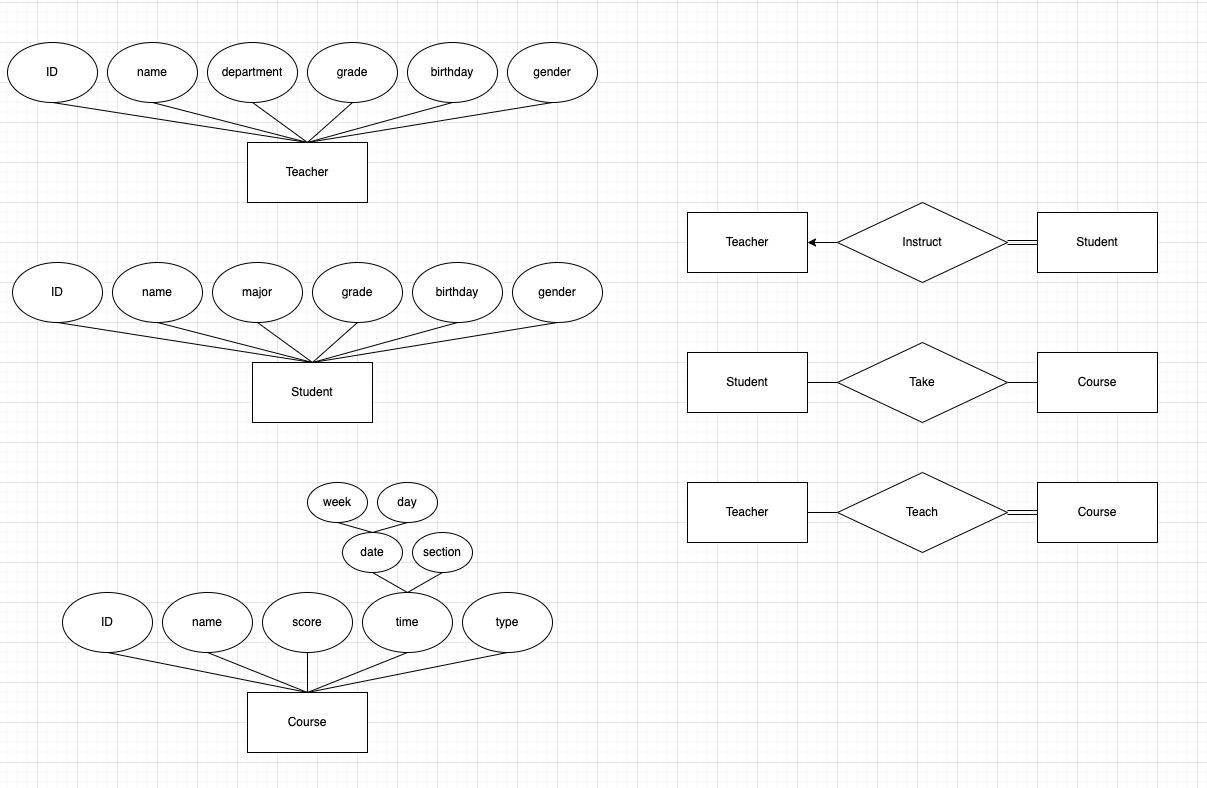
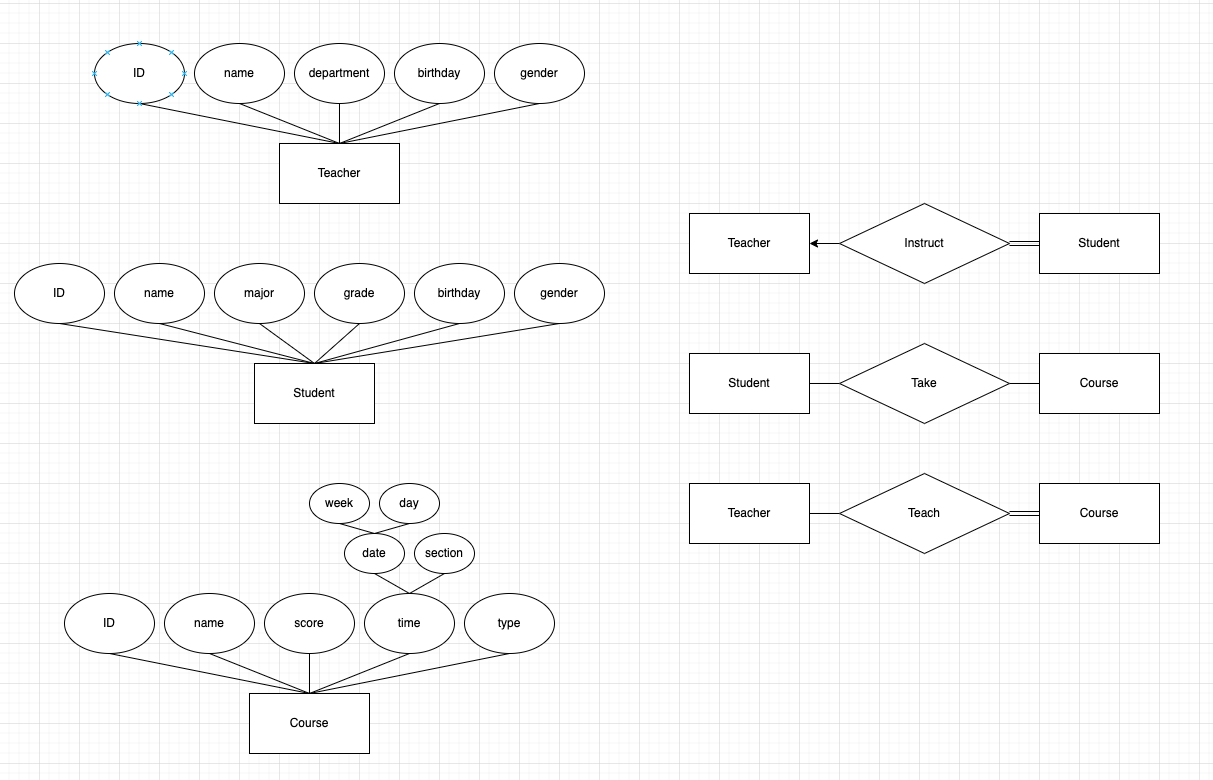
Comp must-do mission

diff --git a/README.md b/README.md
@@ -16,8 +16,8 @@
 - [x] 任务20 openGauss DML语句测试
 - [x] 任务21 openGauss SELECT语句
 - [x] 任务22 使用JDBC访问openGauss数据库
-- [ ] 任务28 基于Visio的openGauss数据库设计
-- [ ] 任务29 基于PowerDesigner的openGauss数据库设计
+- [x] 任务28 基于Visio的openGauss数据库设计
+- [x] 任务29 基于PowerDesigner的openGauss数据库设计
 
 选做（2.5*2）
 - [ ] SQL引擎实现
@@ -215,14 +215,22 @@
 
 ![ER Diagram](/img/er1.png)
 
-选课系统中主要的实体集有三种，分别为教师Teacher、学生Student和课程Course。教师的属性主要有教工号ID、姓名name、学院department、生日birthday和性别gender。学生的属性主要有学号ID、姓名name、专业major、年级grade、生日birthday和性别gender。课程的属性主要有课程号ID、课程名name、学分score、类型（必修/选修）type、时间time，其中时间time是复合属性，由周号week和星期day组成date日期，并与节次section共同组成。关系主要为部分教师指导全体学生、部分学生选修部分课程、部分老师开设全体课程。
+选课系统中主要的实体集有三种，分别为教师Teacher、学生Student和课程Course。教师的属性主要有教工号ID（主键）、姓名name、学院department、生日birthday和性别gender。学生的属性主要有学号ID、姓名name、专业major、年级grade、生日birthday和性别gender。课程的属性主要有课程号ID（主键）、课程名name、学分score、类型（必修/选修）type、时间time，其中时间time是复合属性，由周号week和星期day组成date日期，并与节次section共同组成，其中ID与time组成主键。关系主要为部分教师指导Instruct全体学生、部分学生选修Take部分课程、部分老师开设Teach全体课程。共6张表。
 
 ## mission 29
 
 ### 实验内容
 
+本次实验主要使用PowerDesigner工具进行ER图的设计及SQL脚本的生成。首先下载PowerDesigner工具并安装，随后新建模型，在模型中创建三个实体集Teacher、Student和Course。分别设置这三个实体集的属性，Teacher属性为ID（主键）、name、department、grade、birthday、gender，Student属性分别为ID（主键）、name、major、grade、birthday、gender，Course属性为ID（主键）、name、score、type、time（主键），完成即可看到ER图中的三个实体集，使用关系工具设置其关系，Teacher对Student、Course均为一对多，学生与课程为多对多，完成保存即可。
+
 ### 实验记录
 
 ### 心得体会
 
+通过本次实验我掌握了计算机辅助软件工程工具（CASE工具）PowerDesigner的用法，学会并使用了PowerDesigner设计和部署openGauss数据库应用。本次选择设计了一个选课系统的数据库，运用到了PowerDesigner工具的创建模型、修改模型、创建实体、修改实体、创建关系、修改关系等功能，了解使用CASE的大致流程与便捷性，收获很大。
+
 ### ER模型设计
+
+![ER Diagram](/img/er2.png)
+
+选课系统中主要的实体集有三种，分别为教师Teacher、学生Student和课程Course。教师的属性主要有教工号ID（主键）、姓名name、学院department、生日birthday和性别gender。学生的属性主要有学号ID（主键）、姓名name、专业major、年级grade、生日birthday和性别gender。课程的属性主要有课程号ID、课程名name、学分score、类型（必修/选修）type、时间time，其中ID与time组成主键。关系主要为部分教师指导Instruct全体学生、部分学生选修Take部分课程、部分老师开设Teach全体课程。共6张表。
